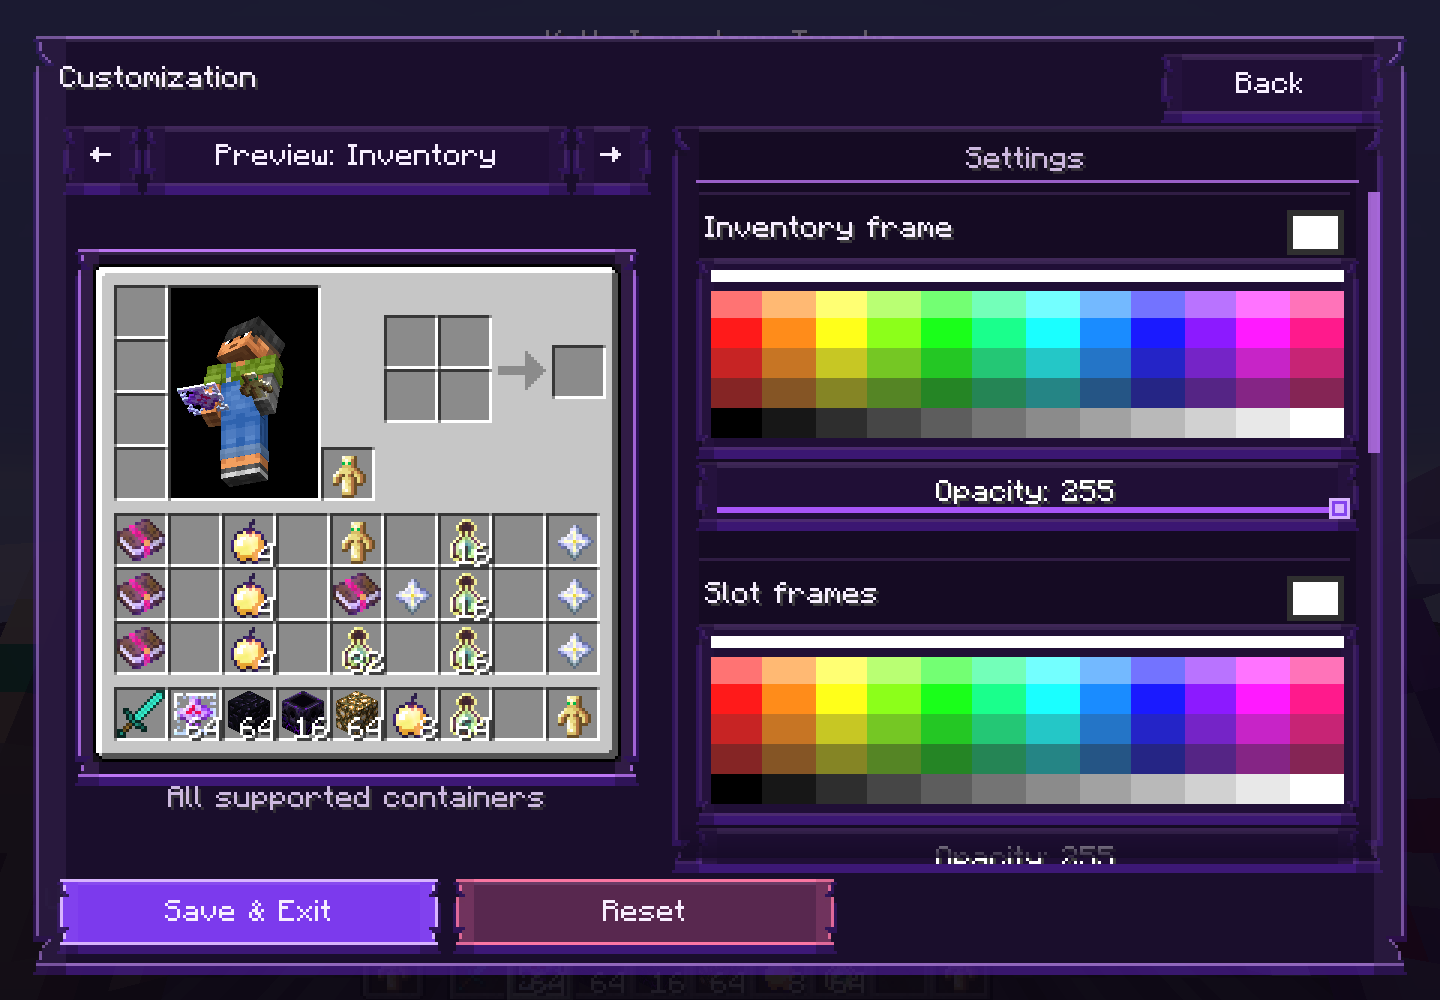
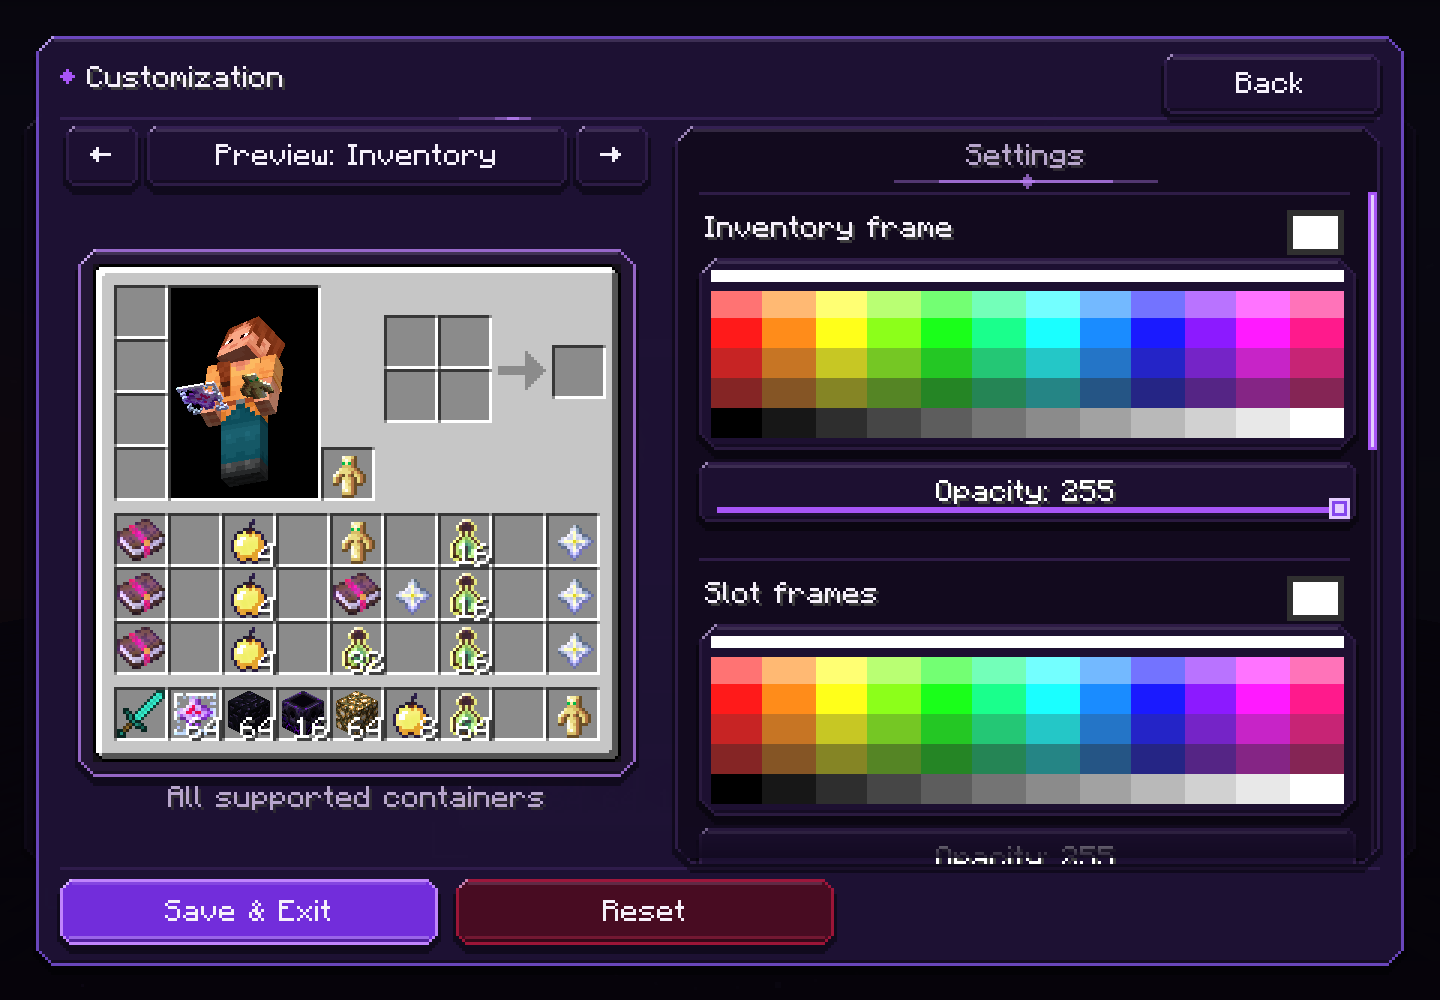
release: 1.1.0
- Version 1.1.0 en los cinco objetivos (26.2, 26.1.2, 26.1.1, 26.1, 1.21.11).
- CHANGELOG, notas de 1.1.0, README y descripcion de Modrinth.
- Capturas nuevas en docs/media.

diff --git a/docs/releases/1.1.0.md b/docs/releases/1.1.0.md
@@ -1,0 +1,97 @@
+# KoHs Inventory Tweaks 1.1.0
+
+## Supported builds
+
+| Minecraft | File | Fabric API | Java |
+| --- | --- | --- | ---: |
+| 26.2 | `kohs-inventory-tweaks-1.1.0+mc26.2.jar` | 0.157.0+26.2 | 25+ |
+| 26.1.2 | `kohs-inventory-tweaks-1.1.0+mc26.1.2.jar` | 0.155.2+26.1.2 | 25+ |
+| 26.1.1 | `kohs-inventory-tweaks-1.1.0+mc26.1.1.jar` | 0.145.4+26.1.1 | 25+ |
+| 26.1 | `kohs-inventory-tweaks-1.1.0+mc26.1.jar` | 0.145.1+26.1 | 25+ |
+| 1.21.11 | `kohs-inventory-tweaks-1.1.0+mc1.21.11.jar` | 0.141.6+1.21.11 | 21+ |
+
+Fabric Loader 0.19.3 or newer. Client-side only.
+
+## Fixes
+
+### A click could fire when the inventory closed
+
+An attack or use pressed in an earlier input poll of the same tick as the
+inventory key stayed queued under the early-opened inventory and fired when the
+inventory closed: a ghost hit, or a thrown pearl. Vanilla runs those clicks in
+that tick, so an opening with one pending now waits for the tick, as Vanilla's
+own opening does.
+
+### 26.2 handled some keys after the inventory
+
+1.0.13 gave 26.2 the key order of 26.1.2. On 26.2, chat, commands,
+advancements, social and the HUD toggle are handled before the inventory, so
+pressed together with the inventory key they waited until it closed. Each
+version now follows the order read from its own client jar.
+
+### Shortcuts after a fast flick in containers
+
+Minecraft updates the slot under the pointer when it draws the screen, so F,
+1-9, Q, Ctrl+Q, a click or the wheel used right after a fast flick acted on the
+slot the pointer had just left. The immediate targeting that already fixed this
+in the player inventory now covers every Vanilla container: chests, barrels,
+shulker boxes, hoppers, dispensers, crafting tables and crafters, furnaces,
+brewing stands, enchanting tables, anvils, grindstones, stonecutters, looms,
+cartography and smithing tables, beacons, villagers, horses and nautiluses.
+
+### Rewritten opening logic
+
+Super Fast Inventory now reaches one decision per input poll, from everything
+that poll delivered, and follows each version's own key order. Center Mouse Fix
+and Cursor Landing were split into screen classification, landing position and
+the opening itself, so each part can be checked on its own.
+
+## A new interface
+
+- **Look.** Dark violet glass with cut corners, a slow background (a turning
+  slot-grid sigil, embers and a passing light), section titles over blades and
+  lines of current. Cyan marks speed and precision, magenta warnings and
+  crimson danger. With Reduce inventory visual motion on, the background holds
+  still; hover and click feedback remain.
+- **Controls that never move.** Buttons, tabs and screens no longer grow into
+  place when they open, and cards no longer lift on hover. The opening scale
+  drew each control a few pixels away from where it could be clicked during the
+  first third of a second; the openings are now light laid over controls that
+  stay put.
+- **Switches.** A track and a knob beside the state name, so the state reads by
+  shape and by word.
+- **Icons.** New pixel icons for every card, tab and compatibility state, sharp
+  at every GUI scale.
+- **Sharper previews.** The inventory previews are drawn at whole-pixel scales,
+  and up to twice their size on the main menu and in Cursor Landing, where a
+  larger preview makes a position easier to place.
+- **Text that fits.** Card titles wrap between words only, the side columns take
+  the width their longest word needs, and a label that cannot fit is shortened
+  instead of spilling out. Every page fits at GUI scale 2, 3 and 4.
+- **Warnings.** One shared panel with a slow magenta pulse that never flashes.
+
+## Vanilla and network boundary
+
+Opening and closing stay on Vanilla's paths. The release adds no packet, replays
+no key and changes no server transaction, cooldown or mouse sensitivity.
+Server-controlled screens keep their Vanilla timing.
+
+## Validation
+
+- Gradle builds: all five targets.
+- Static mixin validation: every mixin reference in all five trees resolves
+  against that version's client jar.
+- Translation validation: passed in all five trees.
+- Release artifact check (`tools/verify-release-artifacts.py --release 1.1.0`):
+  metadata, mixin classes, Java target and bundled Spanish locales passed for
+  all five JARs.
+- In-game labs on the rewritten input logic, which the interface work does not
+  touch, on 26.1.2, 26.2 and 1.21.11: slot shortcuts 457 checks, PvP input 222,
+  container scale 356 and cursor weight 146, all with 0 failures; cursor
+  contract 1,146 with 0 failures on 26.1.2 and 26.2.
+- The slot-shortcut lab is new: it flicks to a slot and presses F, 1-9, Q,
+  Ctrl+Q, clicks or scrolls within the same input poll, at GUI scale 2 and 3,
+  with the GUI Scaler and the recipe book, in 13 containers, and compares every
+  result with the integrated server. With Minecraft's own slot targeting, all 4
+  of its fast-flick cases fail.
+- Interface review of every page at GUI scale 2, 3 and 4 from in-game captures.

diff --git a/docs/releases/MODRINTH.md b/docs/releases/MODRINTH.md
@@ -5,7 +5,7 @@
   <a href="https://github.com/kerlycanelita/KoHs-Inventory-Tweaks/blob/main/docs/wiki/WIKI.md"><img alt="Wiki" src="https://img.shields.io/badge/%F0%9F%93%96-Wiki-7c3aed?style=for-the-badge"></a>
 </p>
 
-![KoHs Inventory Tweaks main configuration menu](https://raw.githubusercontent.com/kerlycanelita/KoHs-Inventory-Tweaks/main/docs/media/main-menu.png)
+![KoHs Inventory Tweaks main configuration menu](https://raw.githubusercontent.com/kerlycanelita/KoHs-Inventory-Tweaks/v1.1.0/docs/media/main-menu.png)
 
 > **Support update (September 2026):** KoHs Inventory Tweaks now supports **Minecraft 1.21.11 and later**. The 1.21.10 builds stay downloadable as archived versions but no longer receive fixes or new features.
 
@@ -20,39 +20,40 @@ The mod keeps normal Minecraft inventory rules. It does not require installation
 - **Cursor Landing** — choose where the cursor appears in your inventory, single or double chests, Ender Chests, and barrels. Every container can be individually disabled to keep its Vanilla behavior.
 - **Center Mouse Fix** — checks the cursor once, right as Minecraft releases the mouse, and fixes it only if it landed somewhere stale. Moving toward a totem or any item is never pulled back.
 - **SuperFastInventory** — opens the local inventory up to one tick (50 ms) sooner, and waits only when Vanilla would still run something first, such as a pending attack or an item in use.
+- **Instant slot shortcuts** — F, 1-9, Q and Ctrl+Q act on the slot under your pointer the moment you press them, even right after a fast flick, in your inventory and every Vanilla container.
 - **Customization** — recolor inventory and slot frames, control opacity and world backdrop darkness, or use a cropped image, GIF, or short video background.
 - **Resource-pack aware** — choose the active resource-pack inventory texture or the Vanilla base, then apply KoHs customization above it.
 - **Item Highlighter** — search Vanilla items and configure slot colors, borders, hotbar highlighting, and dynamic hover highlighting.
 - **GUI Scaler** — resize only the player inventory, including its slots, text, items, and character model.
 - **Player Visibility** — tint and a glowing silhouette for the players you can already see while your inventory is open. Blocks hide both: nothing shows through walls.
-- **Smooth responsive UI** — animated particles, soft transitions, clipped scrolling panels, hover explanations, and support for compact GUI scales.
+- **A new interface** — dark violet glass, a slow animated background that holds still when you reduce motion, controls that never shift under your pointer, hover explanations, and pages that fit at GUI scale 2, 3 and 4.
 - **English and Spanish** — every supported Spanish locale uses the Spanish interface; other languages fall back to English.
 
 ## A closer look
 
 ### Cursor Landing
 
-![Cursor Landing configuration](https://raw.githubusercontent.com/kerlycanelita/KoHs-Inventory-Tweaks/main/docs/media/cursor-landing.png)
+![Cursor Landing configuration](https://raw.githubusercontent.com/kerlycanelita/KoHs-Inventory-Tweaks/v1.1.0/docs/media/cursor-landing.png)
 
 ### Inventory Tweaks
 
-![Inventory Tweaks: Super Fast Inventory, Centered Mouse Fix and Reduce inventory visual motion](https://raw.githubusercontent.com/kerlycanelita/KoHs-Inventory-Tweaks/main/docs/media/inventory-tweaks.png)
+![Inventory Tweaks: Super Fast Inventory, Centered Mouse Fix and Reduce inventory visual motion](https://raw.githubusercontent.com/kerlycanelita/KoHs-Inventory-Tweaks/v1.1.0/docs/media/inventory-tweaks.png)
 
 ### Inventory appearance
 
-![Inventory customization](https://raw.githubusercontent.com/kerlycanelita/KoHs-Inventory-Tweaks/main/docs/media/customization.png)
+![Inventory customization](https://raw.githubusercontent.com/kerlycanelita/KoHs-Inventory-Tweaks/v1.1.0/docs/media/customization.png)
 
 ### Item Highlighter
 
-![Item Highlighter](https://raw.githubusercontent.com/kerlycanelita/KoHs-Inventory-Tweaks/main/docs/media/item-highlighter.png)
+![Item Highlighter](https://raw.githubusercontent.com/kerlycanelita/KoHs-Inventory-Tweaks/v1.1.0/docs/media/item-highlighter.png)
 
 ### Inventory-only GUI Scaler
 
-![GUI Scaler](https://raw.githubusercontent.com/kerlycanelita/KoHs-Inventory-Tweaks/main/docs/media/gui-scaler.png)
+![GUI Scaler](https://raw.githubusercontent.com/kerlycanelita/KoHs-Inventory-Tweaks/v1.1.0/docs/media/gui-scaler.png)
 
 ### Player Visibility
 
-![Player Visibility with the silhouette glow preview](https://raw.githubusercontent.com/kerlycanelita/KoHs-Inventory-Tweaks/main/docs/media/player-visibility.png)
+![Player Visibility with the silhouette glow preview](https://raw.githubusercontent.com/kerlycanelita/KoHs-Inventory-Tweaks/v1.1.0/docs/media/player-visibility.png)
 
 ## Requirements
 

diff --git a/README.md b/README.md
@@ -52,12 +52,13 @@ The mod does not need to be installed on the server.
 - **Cursor Landing:** stores independent normalized coordinates for the player inventory, single chest, double chest, Shulker Box, Ender Chest, and barrel. Individual container types can fall back to vanilla cursor behavior.
 - **Center Mouse Fix:** checks the pointer once, right after Minecraft releases the mouse, and corrects it only when GLFW restored a stale position. Movement made while the inventory opens, such as reaching for a totem, is never pulled back.
 - **Super Fast Inventory:** optionally constructs the ordinary local inventory screen directly from the physical keyboard or remapped mouse press, up to one client tick (50 ms) sooner. It waits for the tick only when Vanilla would still run something first: a hotbar key, a pending attack or use, an item in use, or a block being broken. A held mouse button never holds it back, and holding the inventory key toggles it only once. Server-controlled openings, slot actions, packet types, cooldowns, and validation stay on Vanilla paths.
+- **Slot shortcuts:** F, 1-9, Q, Ctrl+Q, clicks and the wheel act on the slot under the pointer the moment they are pressed, even right after a fast flick, in the player inventory and in every Vanilla container.
 - **Reduce inventory visual motion:** stills recipe-button bounce, item return motion, the enchanting book and animated backgrounds, while progress indicators and enchanted-item glint stay Vanilla's.
 - **Customization:** composes player-inventory and compatible-container textures at runtime using RGB palettes, opacity controls, static or animated backgrounds, and resource-pack-aware sources.
 - **GUI Scaler:** scales the player inventory—including slots, items, text, and the player model—from 65% to 315%, starting at 200% on a fresh installation and using adaptive limits based on available space. The default-enabled Affect Containers switch applies that scale to supported chest, Shulker Box, barrel, and Ender Chest screens.
 - **Item Highlighter:** stores per-item colors, optional HUD hotbar highlighting, and dynamic activation based on Minecraft's calculated hovered slot.
 - **Player Visibility:** can tint normally visible players and draw a glowing silhouette around them while your inventory is open, outside its panel. Both are depth-tested like the body, so blocks hide them and nothing shows through walls; Minecraft's glowing outline is never used. Its page shows a live world view beside a walking preview of your own skin and equipment.
-- **Settings page:** each option shows only its name; hovering it explains the option.
+- **Interface:** dark violet glass, a slow animated background that holds still with Reduce inventory visual motion, and controls that never shift under the pointer. Every page fits at GUI scale 2, 3 and 4; each option shows only its name, and hovering it explains the option.
 - **Safe persistence:** sanitizes every setting and writes it through atomic replacement to config/kohs_inventory_tweaks.json.
 
 ## Install
@@ -96,7 +97,7 @@ This checks every source tree against the exact Minecraft jar it compiles agains
 
 This reports any translation key the client asks for that is missing from a language file, and any key present in English but absent from a translation.
 
-    python tools/verify-release-artifacts.py --release 1.0.13
+    python tools/verify-release-artifacts.py --release 1.1.0
 
 After building all five targets, this checks each release JAR's metadata, mixin classes, Java target and bundled translations, and prints its size and hashes.
 

diff --git a/CHANGELOG.md b/CHANGELOG.md
@@ -1,5 +1,58 @@
 # Changelog
 
+## 1.1.0 — Minecraft 26.2, 26.1.2, 26.1.1, 26.1 and 1.21.11
+
+Fixes found by the new input labs:
+
+- An attack or use pressed in an earlier input poll of the same tick as the
+  inventory key no longer fires when the inventory closes. Super Fast Inventory
+  opened the screen before the tick, the click stayed queued under it, and
+  closing the inventory released it as a ghost hit or a thrown pearl. Vanilla
+  runs those clicks in that tick, so such an opening now waits for the tick.
+- 26.2 gets its own key order back. 1.0.13 applied the 26.1.2 order there, so
+  chat, commands, advancements, social and the HUD toggle pressed with the
+  inventory key waited until the inventory closed; 26.2 handles them first.
+- Slot shortcuts after a fast flick hit the slot under the pointer in every
+  Vanilla container, not only the player inventory: F, 1-9, Q, Ctrl+Q, clicks
+  and the wheel. Vanilla updates the hovered slot when it draws, so a key
+  pressed right after a flick acted on the slot the pointer had just left.
+  Chests, shulker boxes, furnaces, crafting tables, anvils, villagers, horses
+  and the other Vanilla containers are covered.
+- Super Fast Inventory and Center Mouse Fix were rewritten around one decision
+  per input poll and each version's own key order, read from its client jar.
+
+Redesign:
+
+- A new interface: dark violet glass with cut corners, a slow background of a
+  turning slot-grid sigil, embers and a passing light, section titles over
+  blades, and lines of current. Cyan marks speed and precision, magenta
+  warnings, crimson danger. With Reduce inventory visual motion on, the
+  background holds still; hover and click feedback remain.
+- Buttons, tabs and screens no longer grow into place when they open, and cards
+  no longer lift on hover. The opening scale drew every control a few pixels
+  away from where it could be clicked for the first third of a second; the
+  openings are now light laid over controls that never move.
+- Switches show a track and a knob beside the state name, so the state reads by
+  shape and by word, not by colour alone.
+- New pixel icons for every card, tab and compatibility state, sharp at every
+  GUI scale.
+- The inventory previews are drawn at whole-pixel scales, sharp at every GUI
+  scale, and up to twice their size on the main menu and in Cursor Landing,
+  where a larger preview makes a position easier to place.
+- Card titles wrap between words only, and the side columns take the width the
+  longest word needs.
+- Warnings share one panel with a slow magenta pulse; it breathes, it never
+  flashes.
+
+Code:
+
+- The interface's theme, motion, drawing primitives, icons, background and
+  titles live in `ui/`; the inventory previews moved out of the main screen into
+  `InventoryPreviewRenderer`.
+- The debug companion gains the `slot-shortcuts` lab (457 checks against the
+  integrated server on every version, where Vanilla fails 4 of 4 fast-flick
+  cases) and the `ui-review` capture macro.
+
 ## 1.0.13 — Minecraft 26.2, 26.1.2, 26.1.1, 26.1 and 1.21.11
 
 - Center Mouse Fix no longer pulls the pointer back after the inventory opens.
